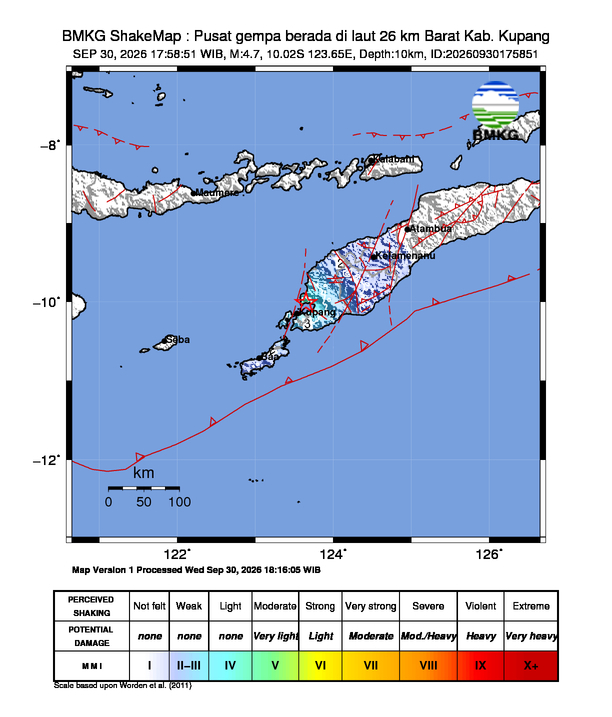
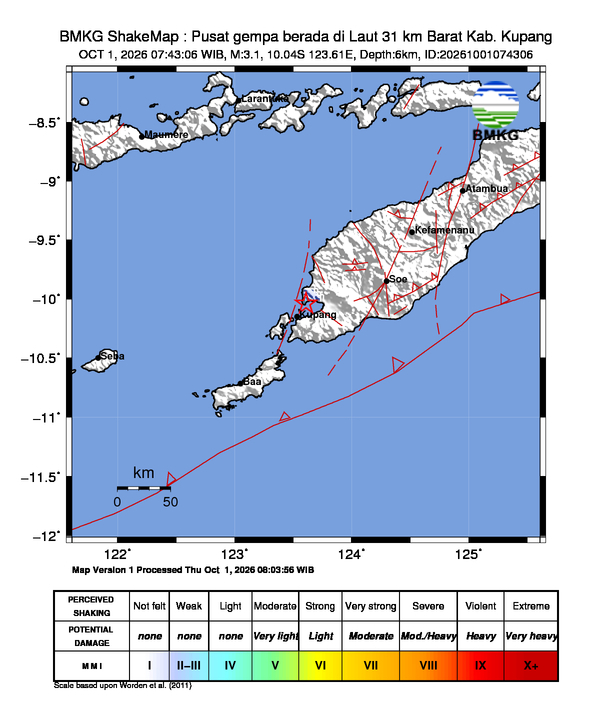
docs: update info gempa & README - 2026-10-01 13:25:23 WIB [skip ci]

diff --git a/README.md b/README.md
@@ -2,7 +2,7 @@
 
 > Monitor gempa bumi real-time untuk wilayah Indonesia. Data diambil otomatis dari **BMKG** setiap 5 menit oleh GitHub Actions, lalu ditampilkan lengkap di README ini beserta peta guncangannya (shakemap).
 
-🕒 **Update otomatis terakhir:** Rabu, 30 September 2026 pukul 18.22.08
+🕒 **Update otomatis terakhir:** Kamis, 01 Oktober 2026 pukul 13.25.21
 
 ---
 
@@ -10,13 +10,13 @@
 
 | Parameter | Detail |
 | --- | --- |
-| 📊 **Magnitudo** | M 4.7 |
-| 📍 **Wilayah** | Pusat gempa berada di laut 26 km Barat Kab. Kupang |
-| 🕒 **Waktu** | 30 Sep 2026, 17:58:51 WIB |
-| 🧭 **Koordinat** | -10.02,123.65 |
-| 📏 **Kedalaman** | 10 km |
+| 📊 **Magnitudo** | M 3.1 |
+| 📍 **Wilayah** | Pusat gempa berada di Laut 31 km Barat Kab. Kupang |
+| 🕒 **Waktu** | 01 Okt 2026, 07:43:06 WIB |
+| 🧭 **Koordinat** | -10.04,123.61 |
+| 📏 **Kedalaman** | 6 km |
 | 🌊 **Potensi** | Gempa ini dirasakan untuk diteruskan pada masyarakat |
-| 📡 **Dirasakan** | IV Kab. Kupang, IV Kota Kupang |
+| 📡 **Dirasakan** | II - III Kab. Kupang, II - III Kota Kupang |
 | 🔗 **Sumber** | [BMKG — InfoGempa Realtime](https://www.bmkg.go.id/gempabumi) |
 
 ### 🗺 Peta Guncangan (Shakemap)
@@ -29,6 +29,7 @@
 
 | Waktu | Magnitudo | Wilayah | Kedalaman | Potensi |
 | --- | --- | --- | --- | --- |
+| 01 Okt 2026 07:43:06 WIB | **M 3.1** | Pusat gempa berada di Laut 31 km Barat Kab. Kupang | 6 km | Gempa ini dirasakan untuk diteruskan pada masyarakat |
 | 30 Sep 2026 17:58:51 WIB | **M 4.7** | Pusat gempa berada di laut 26 km Barat Kab. Kupang | 10 km | Gempa ini dirasakan untuk diteruskan pada masyarakat |
 | 30 Sep 2026 09:35:54 WIB | **M 4.1** | Pusat gempa berada di laut 54 km barat laut Calang-Aceh Jaya | 5 km | Gempa ini dirasakan untuk diteruskan pada masyarakat |
 | 29 Sep 2026 21:39:13 WIB | **M 3.1** | Pusat gempa berada di darat 5 km Barat Kolaka | 3 km | Gempa ini dirasakan untuk diteruskan pada masyarakat |
@@ -43,7 +44,6 @@
 | 25 Sep 2026 15:04:42 WIB | **M 2.4** | Pusat gempa berada di darat 10 km selatan Kab. Cianjur | 7 km | Gempa ini dirasakan untuk diteruskan pada masyarakat |
 | 25 Sep 2026 04:01:35 WIB | **M 3.7** | Pusat gempa berada di darat 17 km Timur Jantho Aceh Besar | 7 km | Gempa ini dirasakan untuk diteruskan pada masyarakat |
 | 24 Sep 2026 10:30:28 WIB | **M 4.6** | Pusat gempa berada di laut 57 km timur Kota Bima | 12 km | Gempa ini dirasakan untuk diteruskan pada masyarakat |
-| 23 Sep 2026 19:16:56 WIB | **M 1.8** | Pusat gempa berada di darat 24 km barat daya Lembata | 12 km | Gempa ini dirasakan untuk diteruskan pada masyarakat |
 
 ---
 
